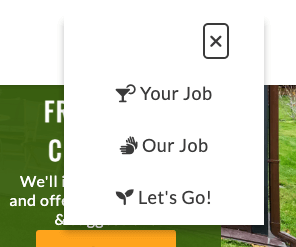
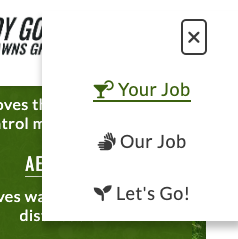
README: Start Hero section

diff --git a/assets/css/styles.css b/assets/css/styles.css
@@ -282,6 +282,8 @@ nav a,
 
 nav a:hover,
 .nav a:hover,
+nav a:focus,
+.nav a:focus,
 .section-heading {
     color: #3B610F;
 }
@@ -375,7 +377,7 @@ footer i {
 
 /* Main Navigation */
 nav a,
-.nav a {
+.nav a:not(.close-menu) {
     border-bottom: 2px solid transparent;
 }
 

diff --git a/README.md b/README.md
@@ -144,6 +144,7 @@ The website consists of 1 main page containing 4 sections, and a 404 error page.
 -----
 
 ![Desktop/Landscape Header](assets/readme/features/header-nav/01-main-header-desktop.png)
+
 <br>
 * The header is fixed to the page top, for easy access to navigation
 * On the left is the company logo, which also doubles as a "home" link
@@ -156,20 +157,18 @@ The website consists of 1 main page containing 4 sections, and a 404 error page.
 ![Mobile Portrait Header](assets/readme/features/header-nav/02-main-header-mobile.png)
 <br>
 * Because the header is fixed at the top, it inevitably occupies valuable screen real estate. As a result, the navigation links will wrap on smaller-width devices/orientations. This in turn, would increase the height of the header and reduce the visible content even more
-* Replacing the navigation links with a menu button means the height of the header can be kept to a minimum
+* Replacing the navigation links with a menu button(hamburger) means the height of the header can be kept to a minimum
 <br>
 
-## Navigation bar
+## Navigation
 
-* #### The navigation bar is located at the top of the page. I chose not to
-* Navigation scheme:
+* The navigation consists of links to the different page sections
+* The appearance and behaviour of the navigation links, is consistent across devices
+* The navigation links are:
+    * Your Job - links to the introduction section
+    * Our Job - links to the section containing the services on offer
+    * Let's Go! - links to the contact form
 
-    * On left side there is a logo. It can be used as navigation link to the main page.
-    * On right side there are four links or burger menu. It contains:
-        * Home
-        * About me
-        * Offer
-        * Contact
 
 <br>
 
@@ -178,20 +177,26 @@ The website consists of 1 main page containing 4 sections, and a 404 error page.
 
 ![Desktop/Landscape Navigation](assets/readme/features/header-nav/03-navigation-menu-desktop.png)
 <br>
-Description here...
+* Each navigation link has an icon, which matches the heading icon of the relevant section
+* Link hover action is confirmed by adding a bottom border and changing the link colour
 <br>
-
+<br>
 ### ***Mobile Portrait Navigation***
 -----
 
 ![Mobile Portrait Navigation](assets/readme/features/header-nav/04-navigation-menu-mobile.png)
 <br>
-Description here...
+* The menu button(hamburger), activates a menu which slides in from the right of the screen
+* Tapping on a link is, once again, confirmed by the appearance of a bottom border and a change in colour
 
 <br>
-## Timetable
 
-* Each site has a timetable on the bottom. Customers can find classes times here.
+## Hero Image
+-----
+
+![Mobile Portrait Navigation](assets/readme/features/hero-section/hero-cta.png)
+<br>
+* Description here...
 
 ## Footer
 
